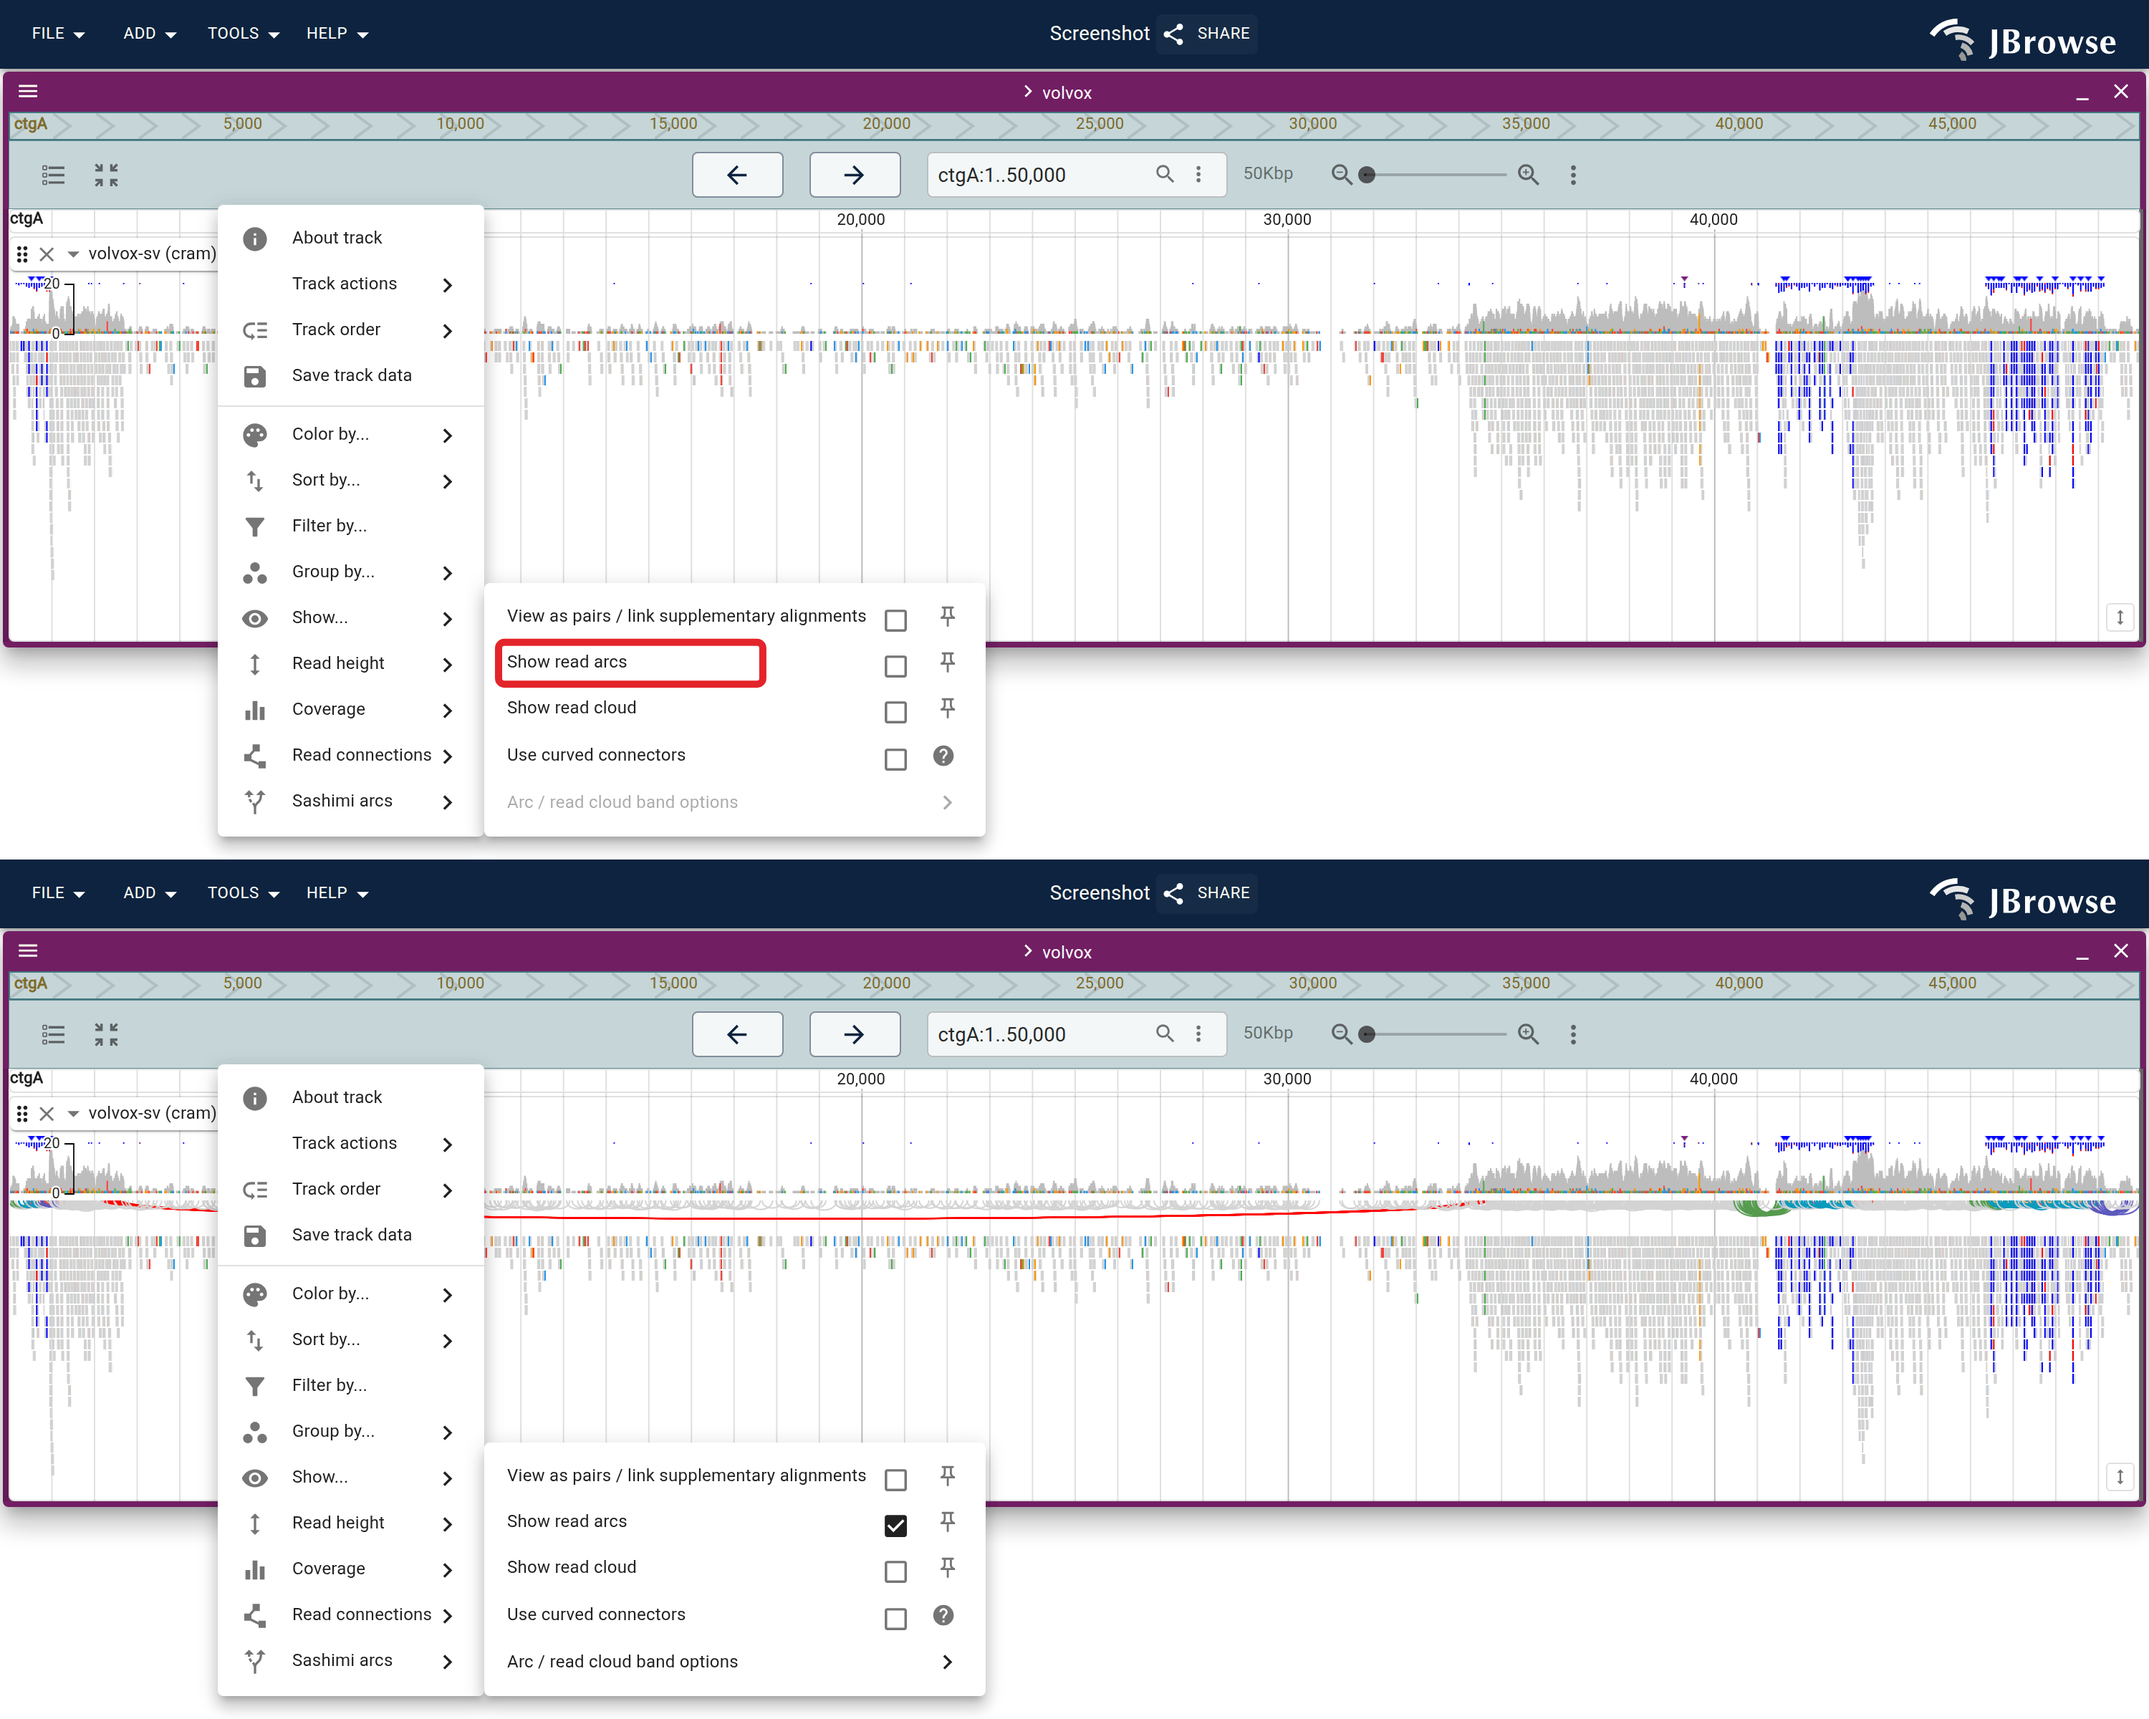
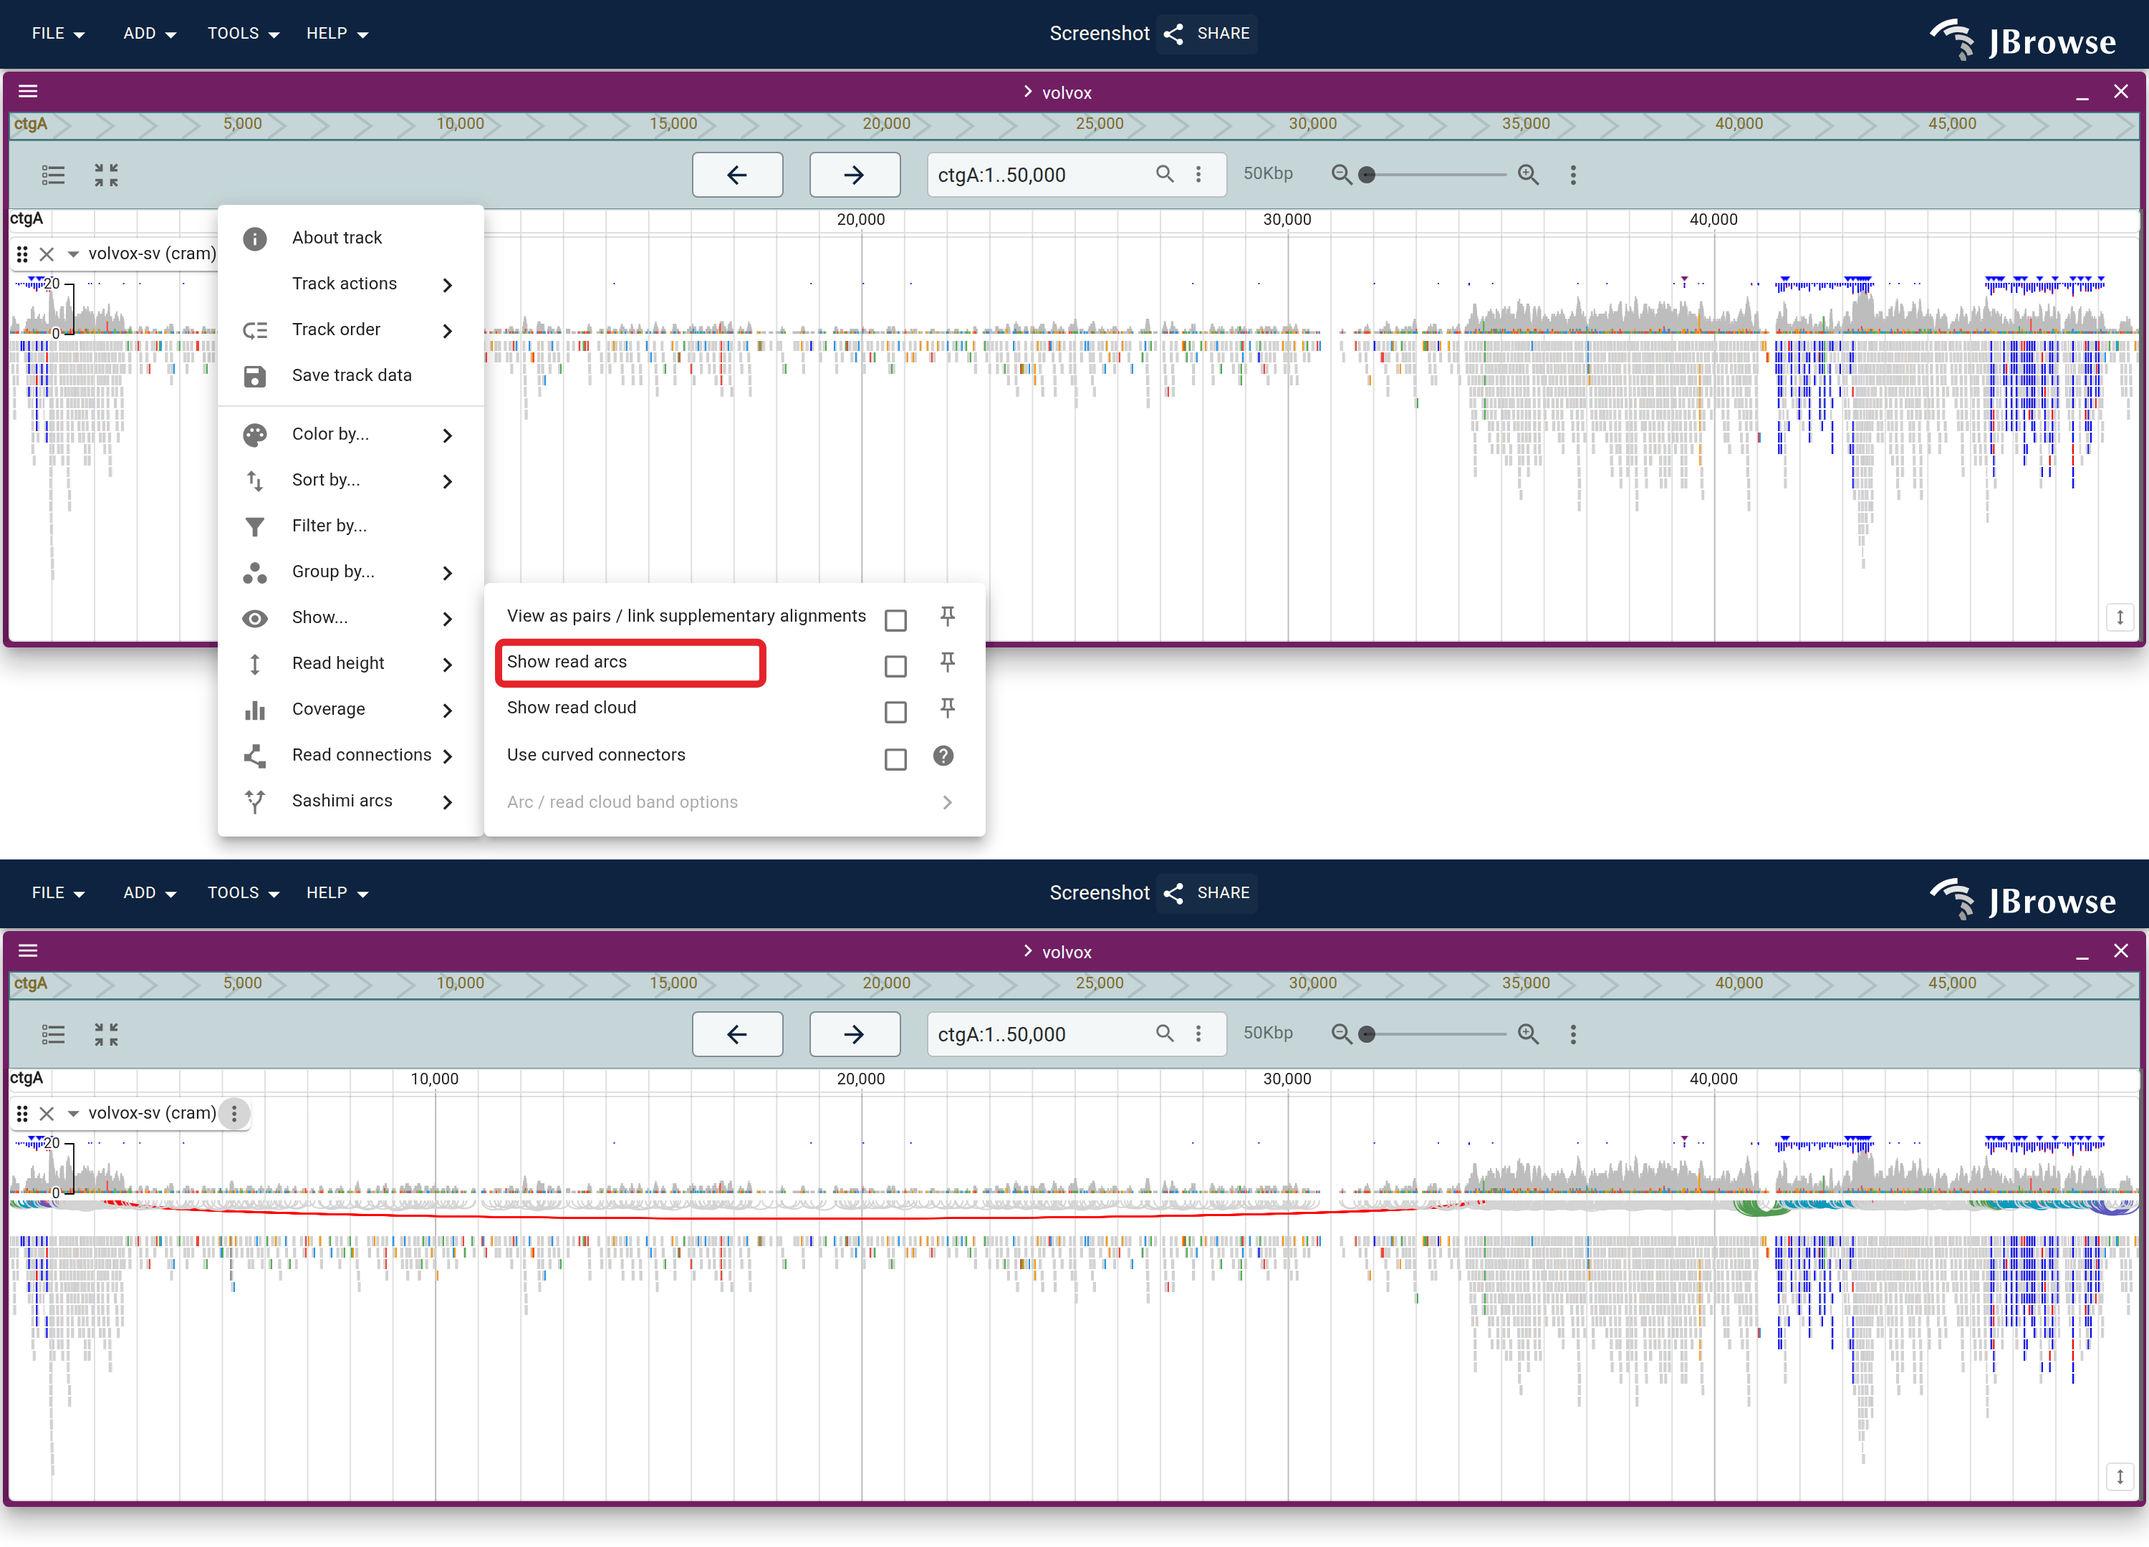
docs(figures): close the menu in the arc-display result frame, shrink the inversion arc band
alignments/select_arc_display: a checkbox menu item stays open after it is
ticked, so the second frame carried the whole cascade over the arcs it had just
enabled. Escape twice, and hide the tooltip the dismissal leaves behind.

inversion_long_read: readConnectionsHeight 130 -> 60. The band holds one dome
1.2 kb wide; at 130 the arc was the tallest thing in the figure. The display
height drops with it (the not-split section ran out of rows 180px before the
box did).

Claude-Session: https://claude.ai/code/session_011xQEbTekTLMTSWopEJ2txk

diff --git a/website/scripts/specs/sv.ts b/website/scripts/specs/sv.ts
@@ -565,13 +565,16 @@ export const svSpecs: ScreenshotSpec[] = [
               // two breakpoints (~1.2 kb apart, on-screen) and color magenta.
               // drawInter/drawLongRange OFF drop these reads' genuine
               // cross-chromosome (chr4/chrX/...) and far-flank supplementary
-              // connectors, leaving just the clean local inversion arc. A tall
-              // dedicated band gives the magenta split-read domes room to read
-              // as arcs.
+              // connectors, leaving just the clean local inversion arc. The band
+              // only has to hold one dome ~1.2 kb wide, so it is kept shallow —
+              // at 130 the arc was the tallest thing in the figure and the reads
+              // it describes were pushed down to make room for it.
               drawInter: false,
               drawLongRange: false,
-              readConnectionsHeight: 130,
-              height: 800,
+              readConnectionsHeight: 60,
+              // the "Not split" section runs out of rows well before the box
+              // does, so the last ~180px of an 800px track was empty
+              height: 620,
               coverageHeight: 70,
               colorBy: { type: 'pairOrientation' },
               // The reads that cross the breakpoints, above the reads that
@@ -587,10 +590,10 @@ export const svSpecs: ScreenshotSpec[] = [
     }),
     readyText: 'HG00151 Nanopore',
     readyTimeout: 90000,
-    // tall enough to clear the whole 800px track plus the second section's own
+    // tall enough to clear the whole 620px track plus the second section's own
     // coverage lane and divider, which grouping adds (the pileup used to run off
     // the bottom edge — reviewer: increase browser height)
-    viewportHeight: 1140,
+    viewportHeight: 960,
     settleMs: 40000,
   },
 

diff --git a/website/scripts/specs/alignments.ts b/website/scripts/specs/alignments.ts
@@ -817,6 +817,9 @@ export const alignmentsSpecs: ScreenshotSpec[] = [
     // whitespace while still leaving room for the deep "Read connections" submenu
     viewportHeight: 600,
     settleMs: 5000,
+    // dismissing the menu leaves the track-menu button hovered, so MUI paints
+    // its "Track settings" tooltip into the result frame
+    hideSelectors: ['.MuiTooltip-popper'],
     stages: [
       {
         actions: [
@@ -828,11 +831,17 @@ export const alignmentsSpecs: ScreenshotSpec[] = [
         annotations: [{ type: 'box', anchor: { text: 'Show read arcs' } }],
       },
       {
-        // tick the "Show read arcs" checkbox so the result frame shows arcs
+        // tick the "Show read arcs" checkbox so the result frame shows arcs,
+        // then dismiss the menu — the checkbox stays open after a tick, and the
+        // result frame is about the arcs, not about the menu that enabled them
         actions: [
           { type: 'click', text: 'Show read arcs' },
+          { type: 'press', key: 'Escape' },
+          { type: 'press', key: 'Escape' },
           { type: 'delay', ms: 3000 },
         ],
+        // no menu in this frame, so it only has to hold the track
+        viewportHeight: 480,
       },
     ],
   },
